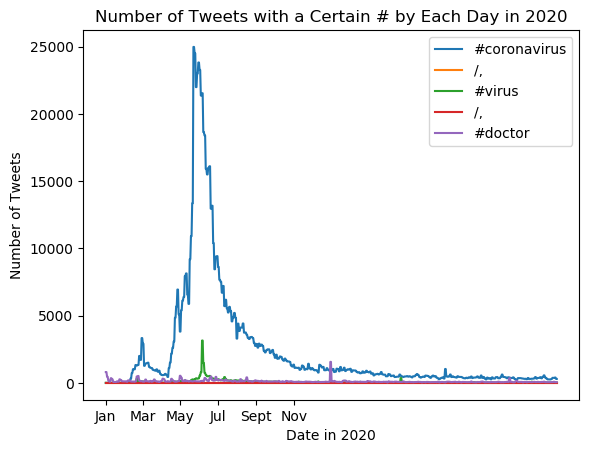
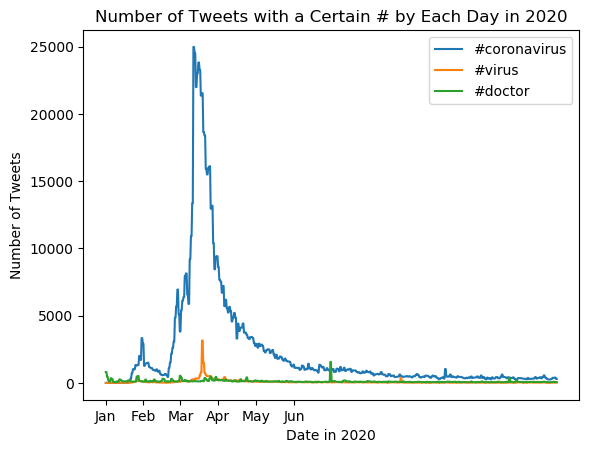
lol

diff --git a/src/alternate_reduce.py b/src/alternate_reduce.py
@@ -33,5 +33,5 @@ plt.xlabel("Date in 2020")
 plt.ylabel("Number of Tweets")
 plt.title("Number of Tweets with a Certain # by Each Day in 2020")
 plt.legend()
-plt.xticks([0,60,121,182,244,305], ["Jan", "Mar", "May", "Jul", "Sept", "Nov"])
+plt.xticks([0,60,121,182,244,305], ["Jan","Feb", "Mar", "Apr", "May", "Jun", "Jul","Aug", "Sept","Oct", "Nov", "Dec"])
 plt.savefig("myplot5.png",bbox_inches="tight")
